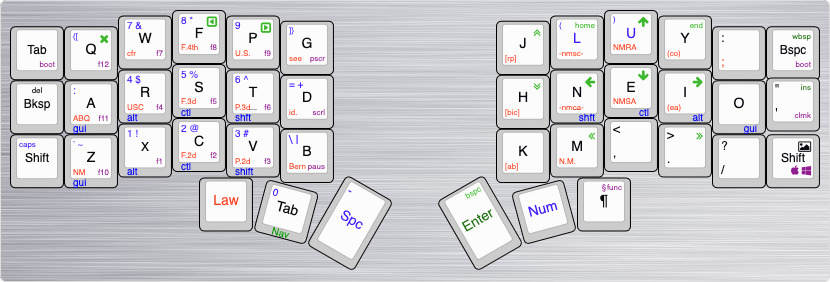
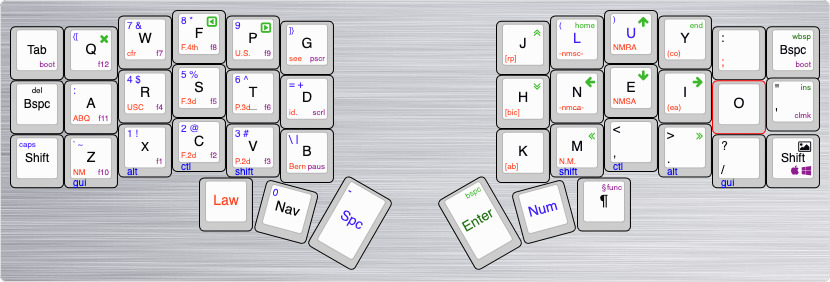
testing law layer on combo

diff --git a/keymap.c b/keymap.c
@@ -44,6 +44,13 @@ enum layer_number {
   _UNKNOWN
 };
 
+#define DZNAV MO(_NAV)
+//#define DZNAV LT(_NAV, KC_TAB)
+#define DZNUM MO(_NUM)
+//#define DZNUM LT(_NUM, KC_BSPC)
+//#define DZLAW LT(_LAW, KC_DEL)
+#define DZLAW OSL(_LAW)
+
 // not sure these are used anymore, replaced with graphics
 // still used for big oled, not small one
 const char* layer_names[][2] = {
@@ -77,8 +84,10 @@ const key_override_t **key_overrides = (const key_override_t *[]){
 // tab + q = esc
 // = law layer
 const uint16_t PROGMEM esc_combo[] = { KC_TAB, KC_Q, COMBO_END};
+const uint16_t PROGMEM law_combo[] = { KC_F, KC_P, COMBO_END};
 combo_t key_combos[] = {
   COMBO(esc_combo, KC_ESC),
+  COMBO(law_combo, DZLAW),
 };
 
 enum unicode_names {
@@ -102,14 +111,6 @@ const uint32_t unicode_map[] PROGMEM = {
 #define DZ_PARA UM(U_PARA_LOWER)
 #define DZ_RQOT UM(U_RQOT) 
 #define DZ_EMDS UM(U_MDASH)  
-
-#define DZNAV MO(_NAV)
-//#define DZNAV LT(_NAV, KC_TAB)
-
-#define DZNUM MO(_NUM)
-//#define DZNUM LT(_NUM, KC_BSPC)
-//#define DZLAW LT(_LAW, KC_DEL)
-#define DZLAW OSL(_LAW)
 
 // experimenting with different shift options
 #define SF_Z LSFT_T(KC_Z)
